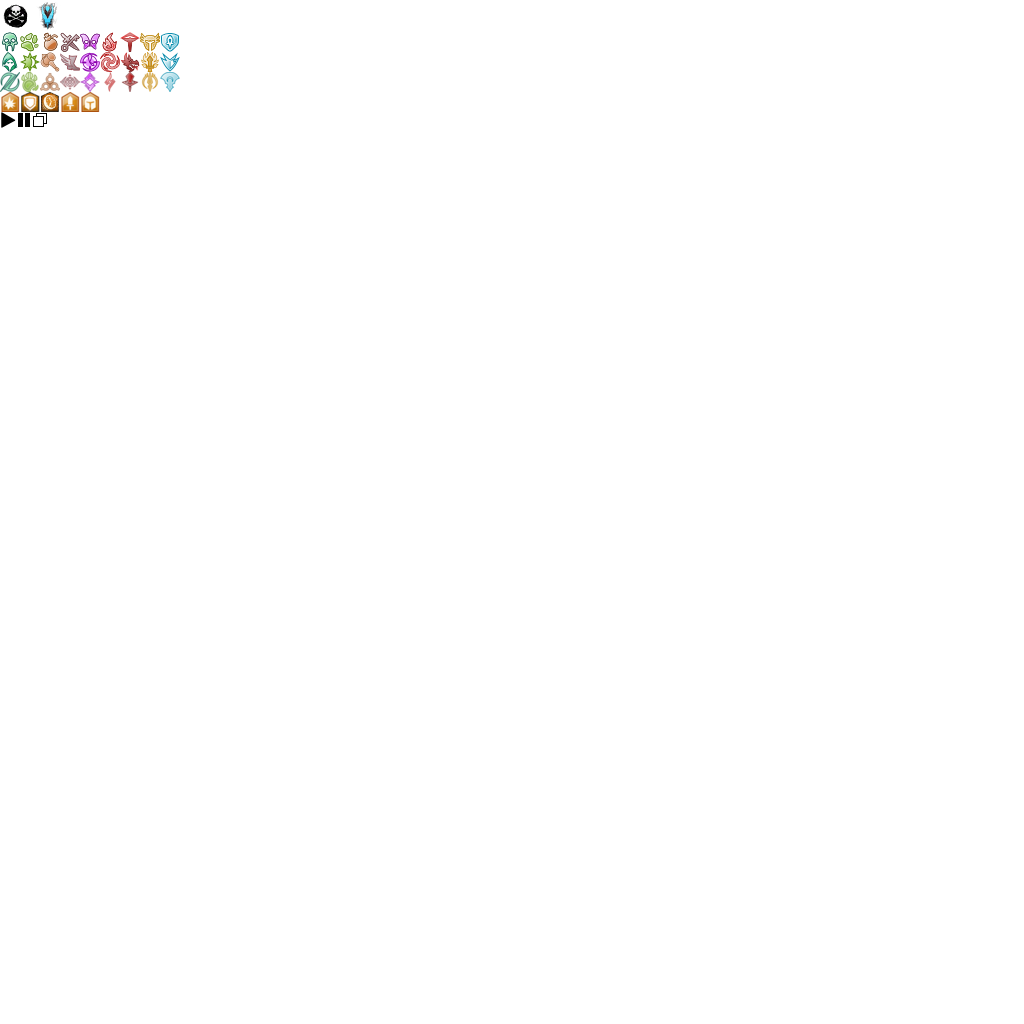
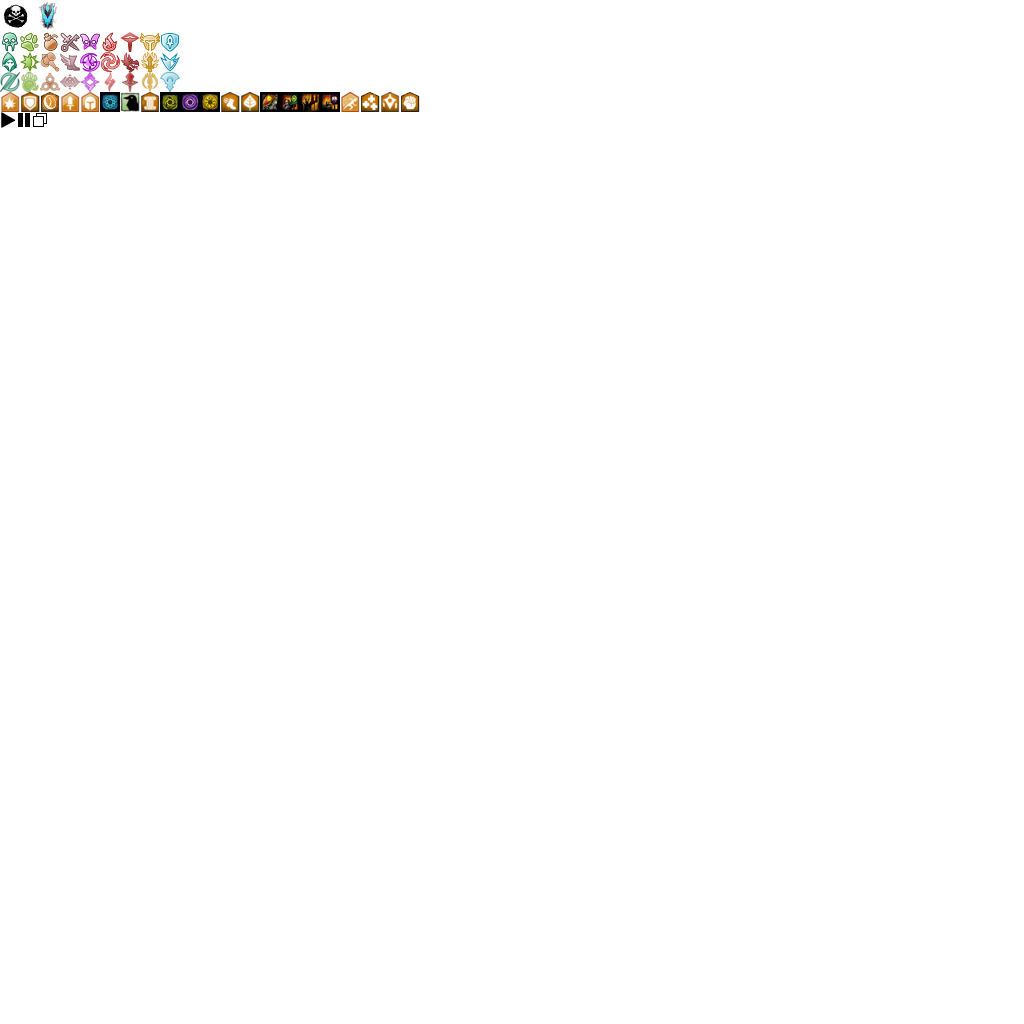
#304 Implemented buff display

Changed region(s): [[0.0938, 0.0625, 0.4062, 0.125]]

diff --git a/continuumsplit/js/continuumsplit.js b/continuumsplit/js/continuumsplit.js
@@ -171,22 +171,26 @@ var Replay;
 			this.element = $(document.createElement('div'))
 			this.element.addClass('replay-detail-row')
 			
+			let mainBar = $(document.createElement('div'))
+			mainBar.addClass('replay-detail-main')
+			this.element.append(mainBar);
+			
 			let classIcon = $(document.createElement('div'))
 			classIcon.addClass('replay-class-' + playerData["class"].toLowerCase())
-			this.element.append(classIcon)
+			mainBar.append(classIcon)
 			
 			let nameDisplay = $(document.createElement('div'))
 			nameDisplay.addClass('replay-detail-item')
 			nameDisplay.addClass('replay-detail-name')
 			nameDisplay.text(playerData["name"])		
-			this.element.append(nameDisplay)
+			mainBar.append(nameDisplay)
 			
 			let bossDpsBar = createDisplayBar(maxDps)
 			let dpsItem = $(document.createElement('div'))
 			dpsItem.addClass('replay-detail-item')
 			dpsItem.addClass('replay-detail-dps')
 			dpsItem.append(bossDpsBar)
-			this.element.append(dpsItem)
+			mainBar.append(dpsItem)
 			
 			this.setBossDps = function(amount) {
 				bossDpsBar.setValue(amount)
@@ -197,15 +201,46 @@ var Replay;
 			cleaveItem.addClass('replay-detail-item')
 			cleaveItem.addClass('replay-detail-cleave')
 			cleaveItem.append(cleaveDpsBar)
-			this.element.append(cleaveItem)
+			mainBar.append(cleaveItem)
 			
 			this.setCleave = function(amount) {
 				cleaveDpsBar.setValue(amount)
 			}
 			
-			/*let protectionBuff = $(document.createElement('div'))
-					protectionBuff.addClass('replay-buff-protection')
-					row.append(protectionBuff)*/
+			this.buffsBar = $(document.createElement('div'))
+			this.buffsBar.addClass('replay-buff-bar')
+			this.buffsBar.addClass('hidden')
+			this.element.append(this.buffsBar)
+			
+			this.buffs = {}
+			
+			this.setBuff = function(name, amount) {
+				if (!this.buffs[name]) {
+					let buff = $(document.createElement('div'))
+					buff.addClass('replay-buff')
+					buff.addClass('replay-buff-' + name)
+					let buffCount = $(document.createElement('div'))
+					buffCount.addClass('replay-buff-count');
+					buffCount.addClass('hidden')
+					buff.append(buffCount);
+					this.buffsBar.append(buff)
+					this.buffs[name] = buff
+				}
+				
+				let buff = this.buffs[name]
+				if (amount > 0) {
+					buff.toggleClass('hidden', false)
+					if (amount > 1) {
+						let buffCounter = $(buff.find('.replay-buff-count')[0])
+						buffCounter.toggleClass('hidden', false)
+						buffCounter.text(amount)
+					} else {
+						buff.find('.replay-buff-count').toggleClass('hidden', true)
+					}
+				} else {
+					buff.toggleClass('hidden', true)
+				}
+			}
 			
 			this.element.on("click", function () {
 				replay.selectActor(playerId);
@@ -393,12 +428,15 @@ var Replay;
 		}
 		
 		addPlayerDetailRows(actorData) {
+			let maxDps = this.calculateMaxDamage("cleavedamage")
+			console.log("MaxDps: " + maxDps);
+			
 			let replay = this;
 			this.playerDetails.html("")
 			replay.detailsLookup = {}
 			$.each(actorData, function(name, data) {
 				if (data["type"] == "Player") {
-					let playerDetail = new PlayerDetail(name, data, replay, 50000, 50000)
+					let playerDetail = new PlayerDetail(name, data, replay, maxDps, maxDps)
 					replay.playerDetails.append(playerDetail.element)
 					replay.detailsLookup[name] = playerDetail;
 				} else if (data["type"] == "Boss") {
@@ -410,6 +448,24 @@ var Replay;
 					}
 				}
 			})
+		}
+		
+		calculateMaxDamage(targetTrack) {
+			let replay = this;
+			let max = 0;
+			$.each(this.replayData.tracks, function(trackIndex, track) {
+				if (targetTrack == track.path[1]) {
+					$.each(track.data, function(index, dataPair) {
+						if (dataPair.time > 5) {
+							let value = dataPair.value / dataPair.time;
+							if (value > max) {
+								max = value;
+							}
+						}
+					})
+				}
+			});
+			return max;
 		}
 		
 
@@ -467,6 +523,8 @@ var Replay;
 				this.canvas.height = this.windowH
 				this.rootElement.css("width", this.windowW)
 				
+				$('.replay-buff-bar').toggleClass('hidden', true)
+				
 				$.each(this.maps, function(index, map) {
 					map.imageDst = replay.calcDstBox(map, index, replay.maps.length)
 				});
@@ -493,6 +551,8 @@ var Replay;
 				$.each(this.maps, function(index, map) {
 					map.imageDst = replay.calcDstBox(map, index, replay.maps.length)
 				});
+				
+				$('.replay-buff-bar').toggleClass('hidden', false)
 				
 				this.setFrame(this.frameTime)
 			}
@@ -652,11 +712,14 @@ var Replay;
 						data.detailDisplay.setBossDps(0)
 						data.detailDisplay.setCleave(0);
 					}
+					$.each(data.buff, function(name, value) {
+						data.detailDisplay.setBuff(name, value);
+					})
 				}
 			})
 			
 			let newSort = this.playerDetails.children().sort(function(a, b) {
-				return parseInt($($(b).children()[2]).text()) - parseInt($($(a).children()[2]).text());
+				return parseInt($(b).find('.replay-detail-dps').text()) - parseInt($(a).find('.replay-detail-dps').text());
 			});
 			
 			let matches = true;

diff --git a/continuumsplit/css/main.css b/continuumsplit/css/main.css
@@ -130,6 +130,10 @@ textarea {
 	width: 175px;
 }
 
+.replay-detail-main {
+	display: flex;
+}
+
 .replay-detail-cleave-dps-column,
 .replay-detail-cleave {
 	width: 95px;
@@ -148,11 +152,6 @@ textarea {
 
 .replay-detail-header-row {
 	display: flex;
-}
-
-.replay-detail-row {
-	display: flex;
-	flex-wrap: wrap;
 }
 
 .replay-detail-player-column {
@@ -186,6 +185,19 @@ textarea {
 	line-height: 20px;
 	margin-left: 10px;
 }
+.replay-buff-bar {
+	display: flex;
+}
+
+.replay-buff-count {
+	font-size: 12px;
+	font-weight: bold;
+	color: black;
+	text-shadow: 1px 1px 2px white;
+	position: relative;
+	padding: 5px 3px 0px 0px;
+	text-align: right;
+}
 
 .replay-detail-bossinfo {
 	margin-bottom: 10px;
@@ -198,6 +210,11 @@ textarea {
 .replay-selected {
 	font-weight: bold;
 }
+
+/* ==========================================================================
+   GW2 classes
+   ========================================================================== */
+
 
 .replay-class-necromancer {
 	width: 20px;
@@ -388,6 +405,11 @@ textarea {
 	background-position: -160px -72px;
 }
 
+/* ==========================================================================
+   GW2 buffs
+   ========================================================================== */
+
+
 .replay-buff-fury {
 	width: 20px;
 	height: 20px;
@@ -422,6 +444,119 @@ textarea {
 	background-image: url('../img/icons.png');
 	background-position: -80px -92px;
 }
+
+.replay-buff-spirit_of_frost {
+	width: 20px;
+	height: 20px;
+	background-image: url('../img/icons.png');
+	background-position: -100px -92px;
+}
+
+.replay-buff-spotter {
+	width: 20px;
+	height: 20px;
+	background-image: url('../img/icons.png');
+	background-position: -120px -92px;
+}
+
+.replay-buff-stab {
+	width: 20px;
+	height: 20px;
+	background-image: url('../img/icons.png');
+	background-position: -140px -92px;
+}
+
+.replay-buff-stone_spirit {
+	width: 20px;
+	height: 20px;
+	background-image: url('../img/icons.png');
+	background-position: -160px -92px;
+}
+
+.replay-buff-storm_spirit {
+	width: 20px;
+	height: 20px;
+	background-image: url('../img/icons.png');
+	background-position: -180px -92px;
+}
+
+.replay-buff-sun_spirit {
+	width: 20px;
+	height: 20px;
+	background-image: url('../img/icons.png');
+	background-position: -200px -92px;
+}
+
+.replay-buff-swift {
+	width: 20px;
+	height: 20px;
+	background-image: url('../img/icons.png');
+	background-position: -220px -92px;
+}
+
+.replay-buff-vigor {
+	width: 20px;
+	height: 20px;
+	background-image: url('../img/icons.png');
+	background-position: -240px -92px;
+}
+
+.replay-buff-banner_defense {
+	width: 20px;
+	height: 20px;
+	background-image: url('../img/icons.png');
+	background-position: -260px -92px;
+}
+
+.replay-buff-banner_discipline {
+	width: 20px;
+	height: 20px;
+	background-image: url('../img/icons.png');
+	background-position: -280px -92px;
+}
+
+.replay-buff-banner_strength {
+	width: 20px;
+	height: 20px;
+	background-image: url('../img/icons.png');
+	background-position: -300px -92px;
+}
+
+.replay-buff-banner_tactics {
+	width: 20px;
+	height: 20px;
+	background-image: url('../img/icons.png');
+	background-position: -320px -92px;
+}
+
+.replay-buff-quickness {
+	width: 20px;
+	height: 20px;
+	background-image: url('../img/icons.png');
+	background-position: -340px -92px;
+}
+
+.replay-buff-regen {
+	width: 20px;
+	height: 20px;
+	background-image: url('../img/icons.png');
+	background-position: -360px -92px;
+}
+
+.replay-buff-resist {
+	width: 20px;
+	height: 20px;
+	background-image: url('../img/icons.png');
+	background-position: -380px -92px;
+}
+
+.replay-buff-retaliation {
+	width: 20px;
+	height: 20px;
+	background-image: url('../img/icons.png');
+	background-position: -400px -92px;
+}
+
 
 /* ==========================================================================
    Helper classes
